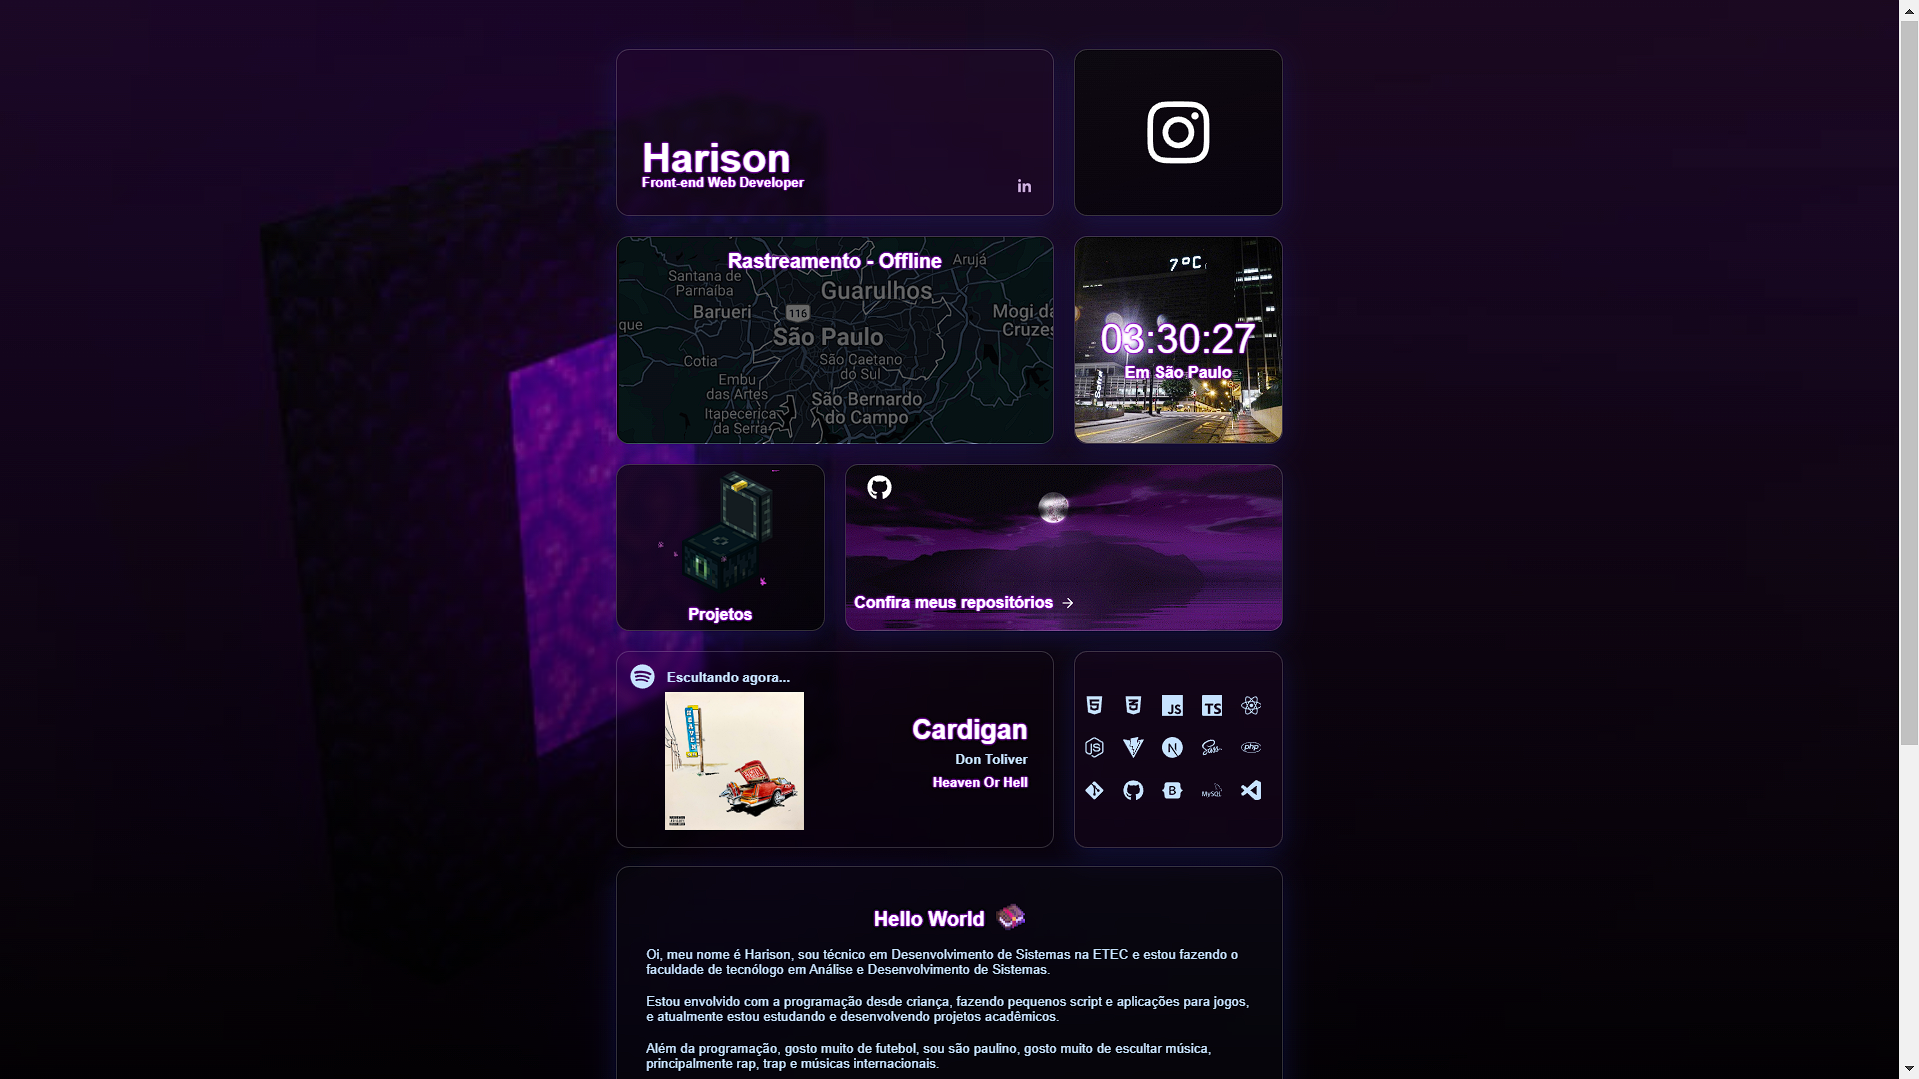
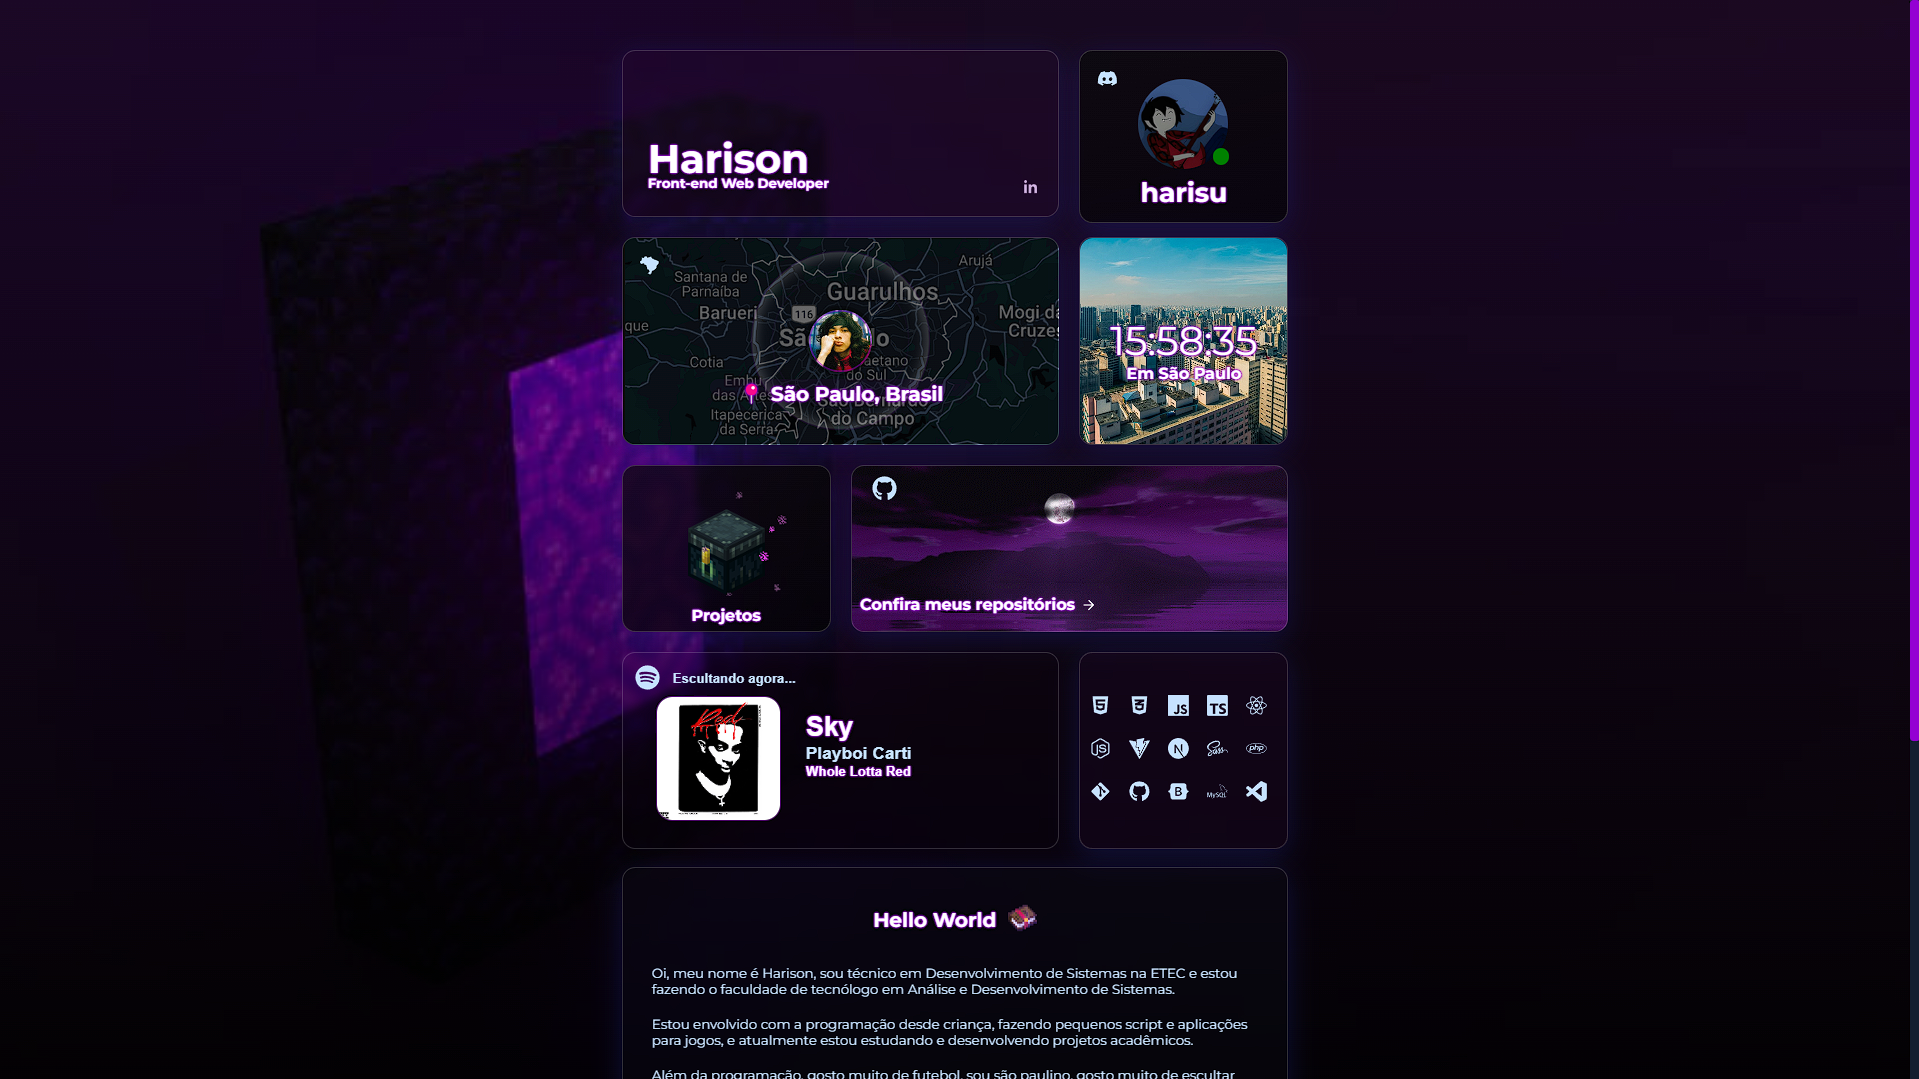
:page_facing_up: Preview Image Fix

diff --git a/src/styles/_main.scss b/src/styles/_main.scss
@@ -106,6 +106,25 @@ body {
 
 
 
+
+::-webkit-scrollbar {
+  width: 12px;
+
+}
+
+::-webkit-scrollbar-track {
+  background: #131e30;;
+  border-radius: 1px;
+}
+
+::-webkit-scrollbar-thumb {
+  background: #9400d3;
+  border-radius: 4px;
+}
+
+
+
+
 @keyframes fade-in {
   0% {
       opacity: 0;

diff --git a/src/styles/_spotiftcard.scss b/src/styles/_spotiftcard.scss
@@ -40,7 +40,7 @@
   }
 
   img {
-    border: #9400d3 1px solid;
+    border: #9400d378 1px solid;
     border-radius: 20px;
     margin-left: 40px;
     object-fit: cover;
